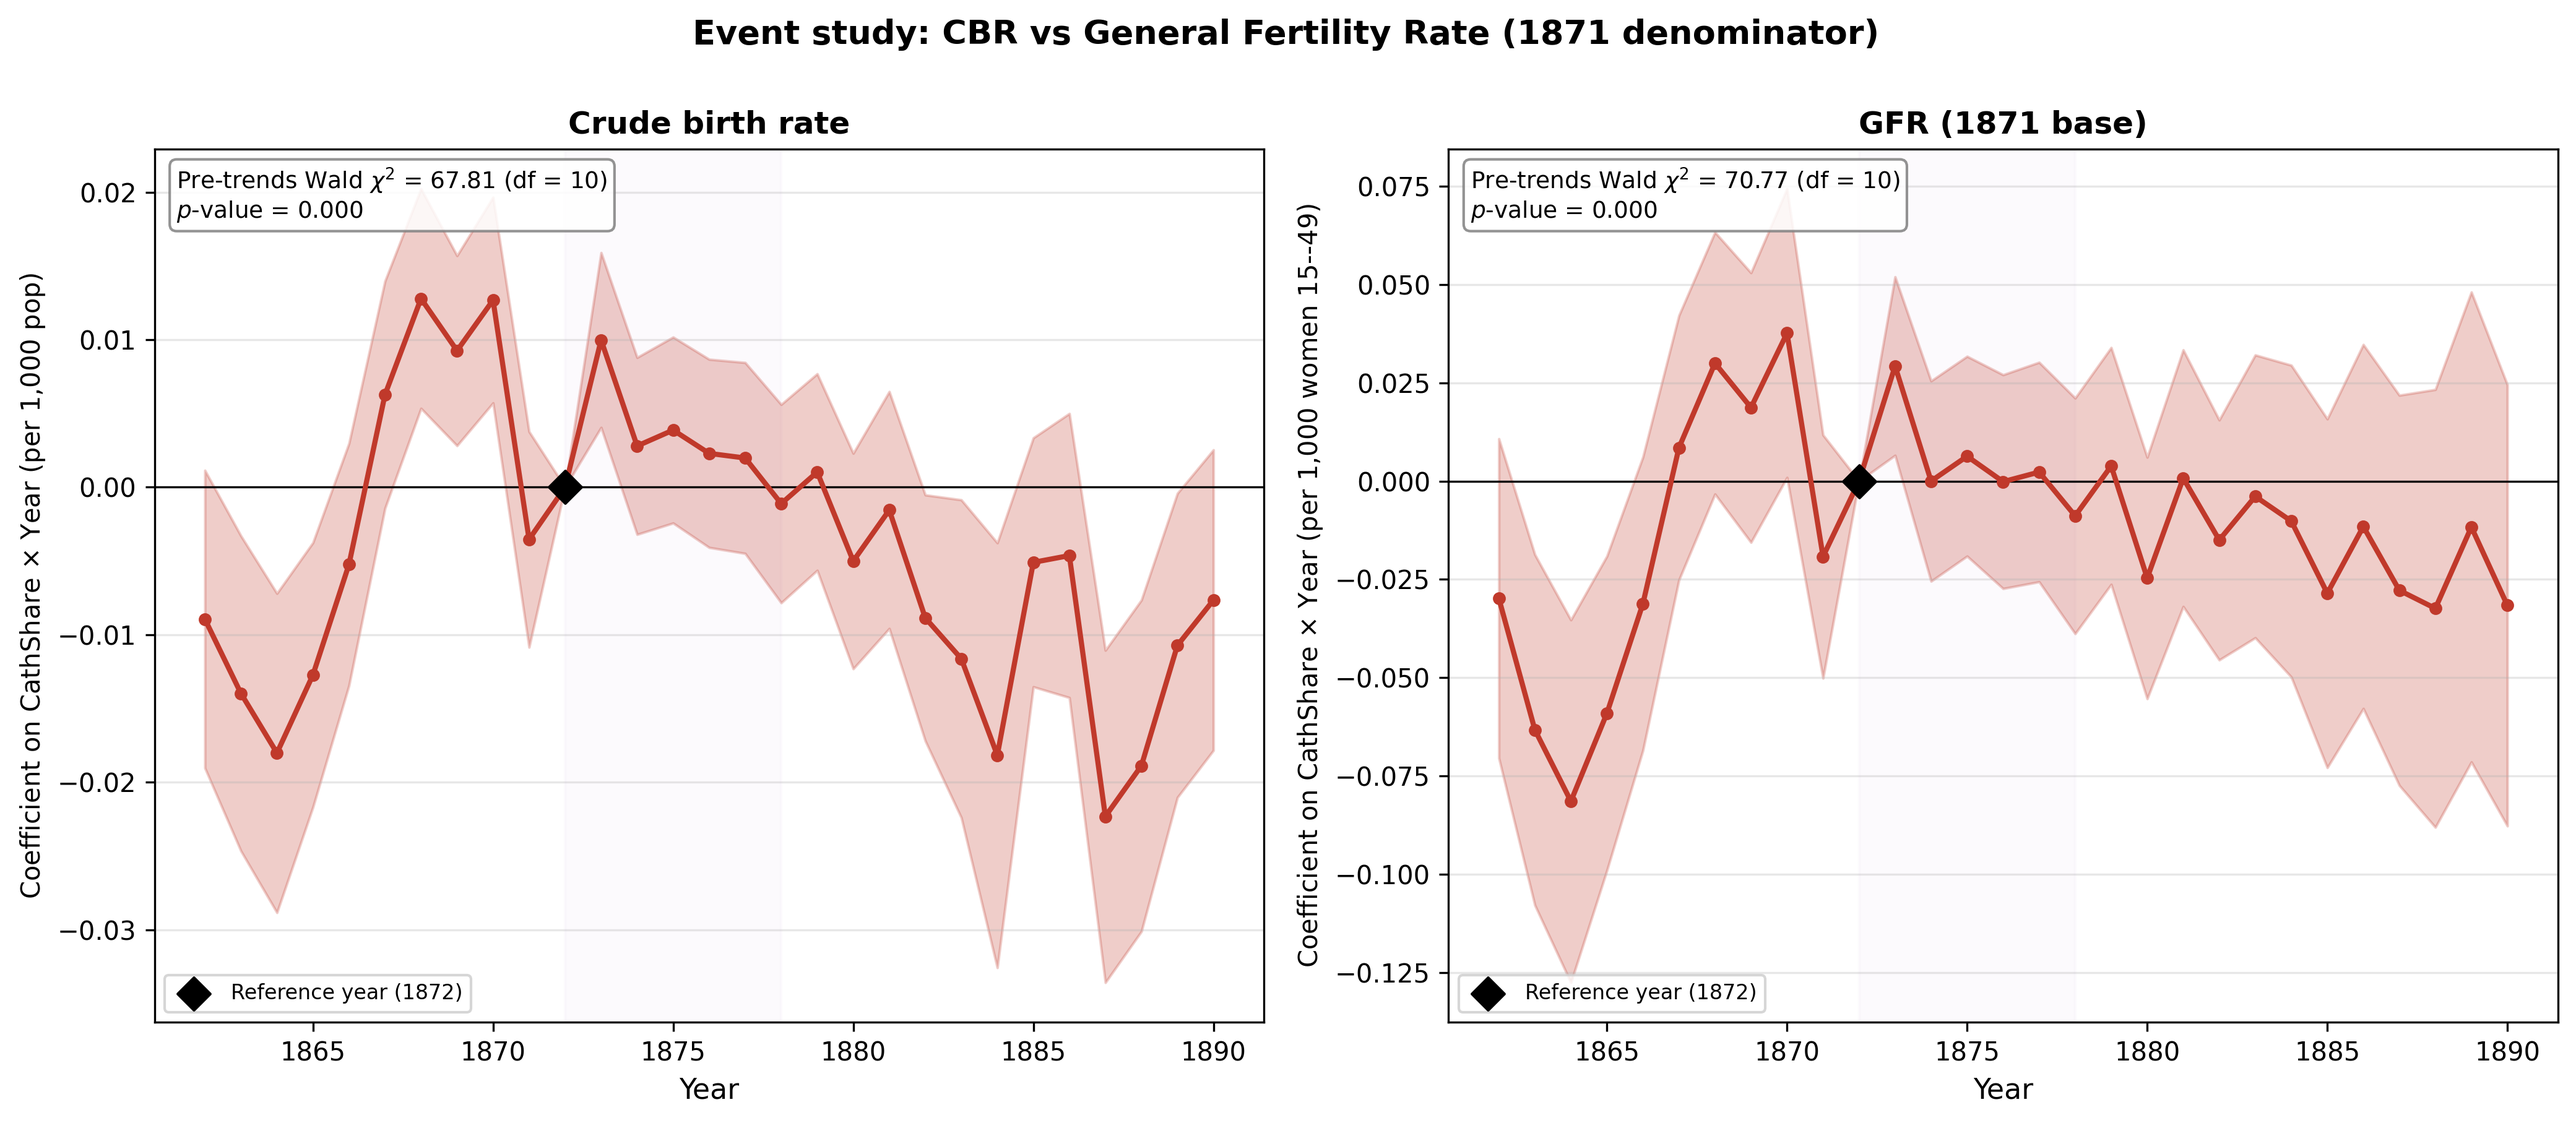
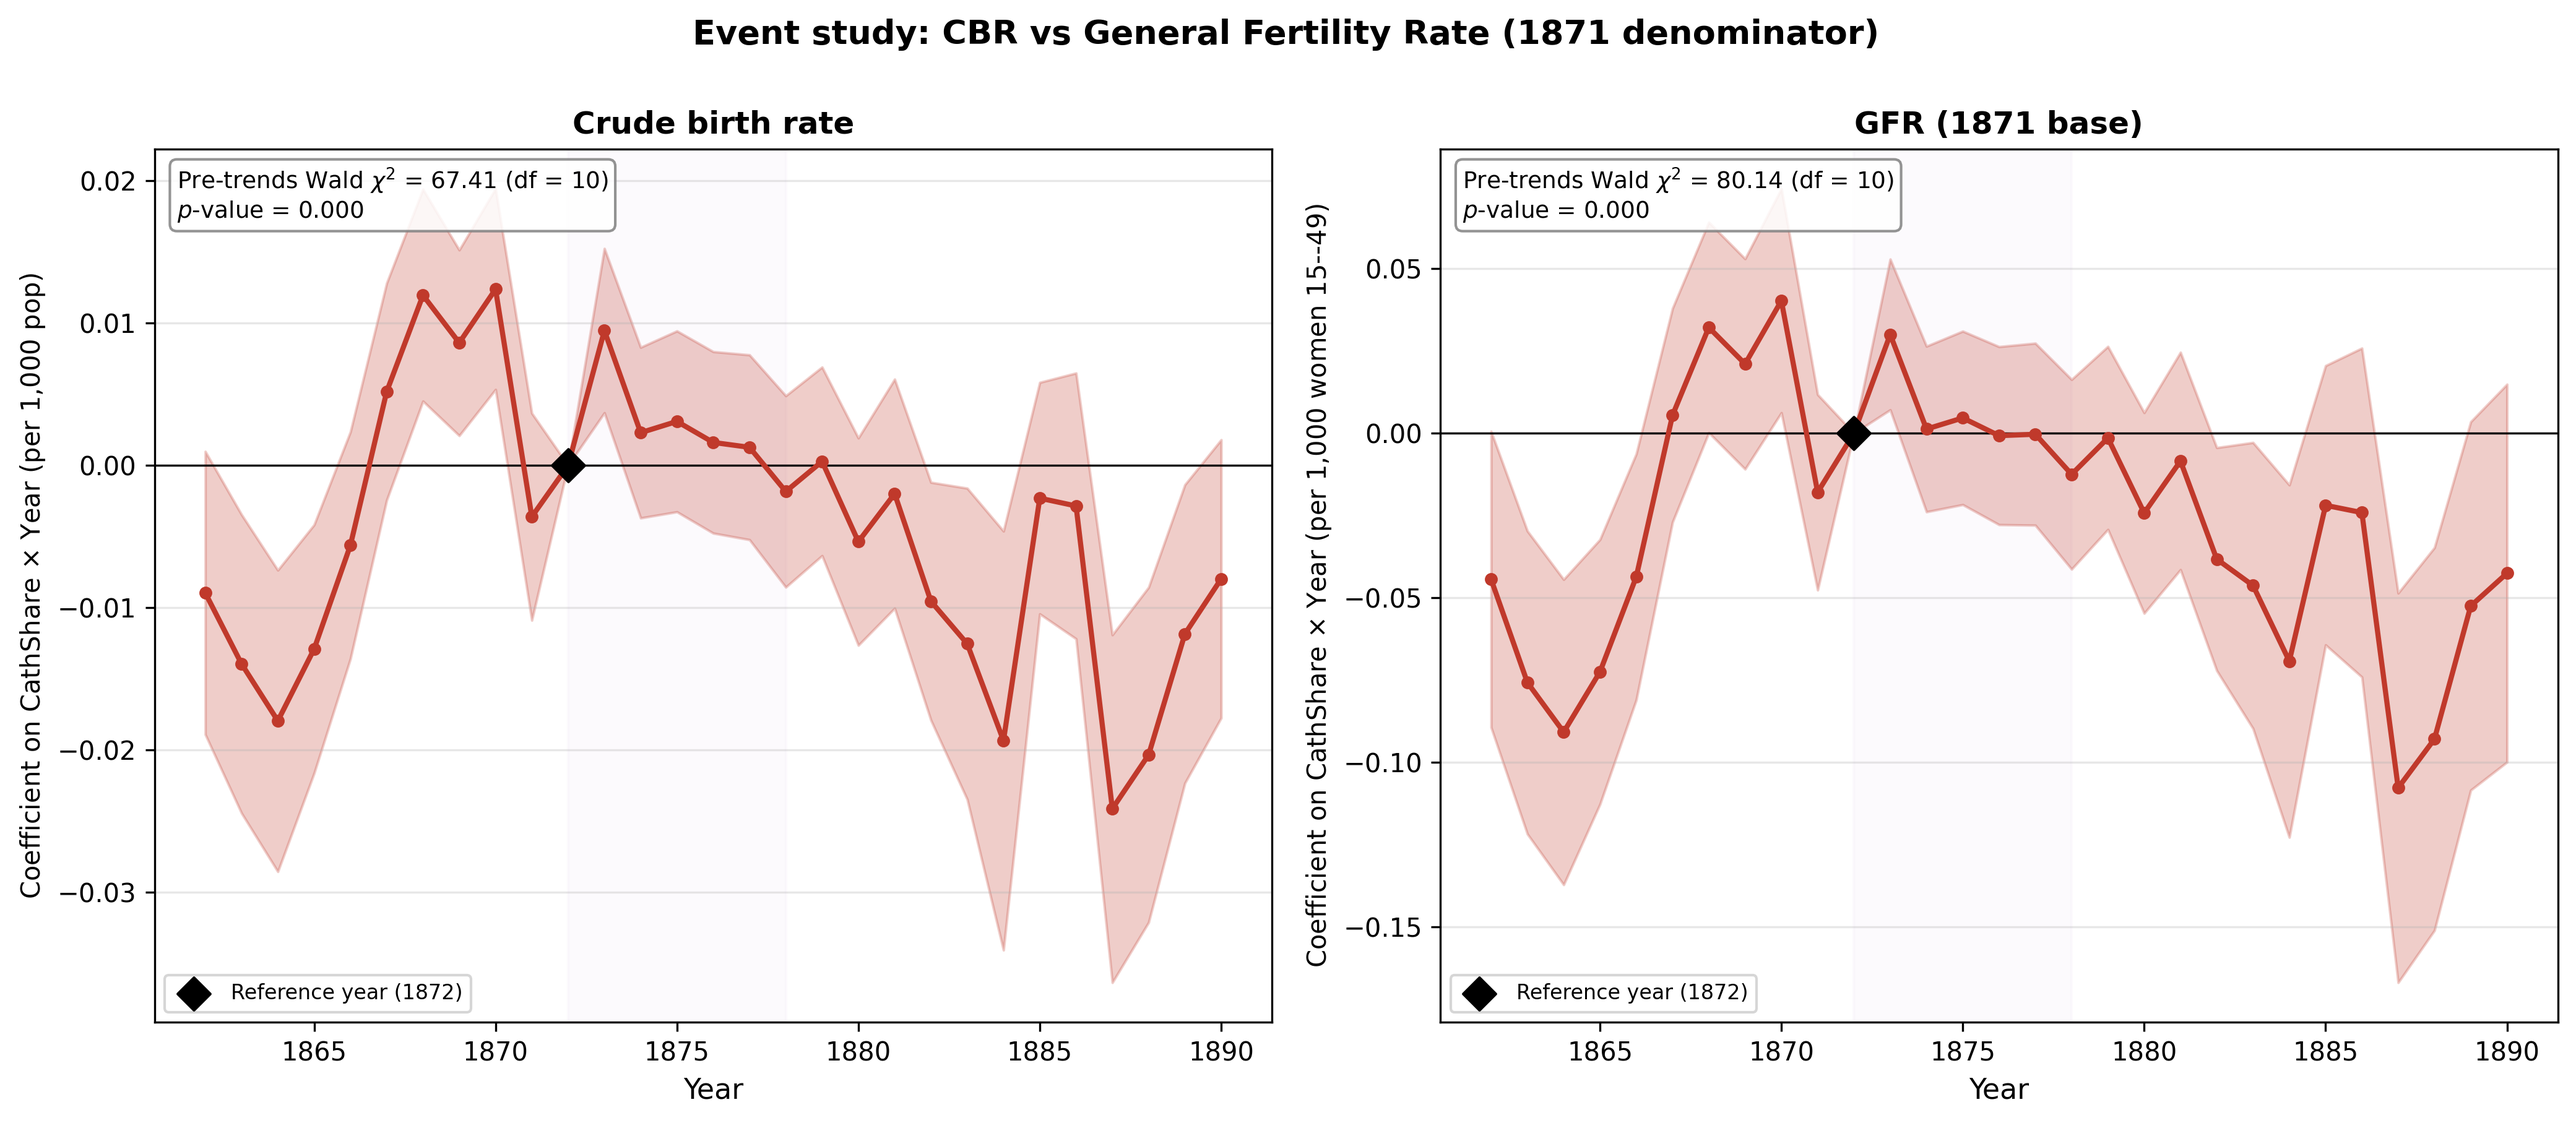
refactor: ln_pop now uses Poptot_midyear (consistent with rate denominators)
Previously ln_pop = log(Poptot) (raw Galloway carry-forward) while the
headline rate variables used Poptot_midyear as denominator. That mixes
conventions inside the same regression: the LHS varies smoothly
year-on-year, while the population control jumps in a sawtooth pattern
at every census year. Switching ln_pop to log(Poptot_midyear) keeps
the regression internally consistent.

Empirical effect (small, as expected):
- CBR DiD: -0.0041 -> -0.0042 (p=0.19, essentially unchanged)
- Marriage rate DiD: -0.0042 -> -0.0042 (no change)
- Legitimate BR DiD: -0.0021 -> -0.0022 (essentially unchanged)
- GFR DiD: +0.0049 (p=0.78) -> -0.0094 (p=0.57) -- sign flips but
  still null. The previous mixed-convention control was distorting
  the GFR estimate.
- Pre-trends Wald basically unchanged for all outcomes.

DATA_APPENDIX.md section 6.6 updated; tables and figure regenerated.

diff --git a/exam_project2/outputs/tables/baseline_did.tex b/exam_project2/outputs/tables/baseline_did.tex
@@ -11,25 +11,25 @@
  & Crude birth rate & Legit.\ birth rate & Illegitimacy ratio & Marriage rate & Crude birth rate & Legit.\ birth rate & Illegitimacy ratio & Marriage rate \\
  & (1) & (2) & (3) & (4) & (5) & (6) & (7) & (8) \\
 \midrule
-CathShare $\times$ Post & -0.004 & -0.002 & -0.003 & -0.004$^{***}$ & 0.003 & 0.003 & 0.000 & 0.000 \\
+CathShare $\times$ Post & -0.004 & -0.002 & -0.003 & -0.004$^{***}$ & 0.001 & 0.002 & 0.000 & -0.000 \\
  & (0.003) & (0.003) & (0.002) & (0.001) & (0.005) & (0.005) & (0.003) & (0.001) \\
 \addlinespace
-$\ln(\text{Population})$ & 7.133$^{***}$ & 6.643$^{***}$ & 0.162 & 1.367$^{***}$ & 6.826$^{***}$ & 6.460$^{***}$ & -0.176 & 0.993$^{***}$ \\
- & (0.892) & (0.848) & (0.219) & (0.160) & (0.944) & (0.872) & (0.268) & (0.165) \\
+$\ln(\text{Population})$ & 1.973$^{**}$ & 1.723$^{**}$ & 0.272 & 0.247$^{*}$ & 2.516$^{***}$ & 2.441$^{***}$ & -0.278 & 0.014 \\
+ & (0.818) & (0.791) & (0.256) & (0.149) & (0.814) & (0.763) & (0.295) & (0.159) \\
 \midrule
 County FE & Yes & Yes & Yes & Yes & Yes & Yes & Yes & Yes \\
 Year FE & Yes & Yes & Yes & Yes & -- & -- & -- & -- \\
 Year $\times$ Rb FE & -- & -- & -- & -- & Yes & Yes & Yes & Yes \\
 Observations & 10,777 & 10,777 & 10,777 & 10,777 & 10,777 & 10,777 & 10,777 & 10,777 \\
-Within $R^{2}$ & 0.055 & 0.054 & 0.010 & 0.034 & 0.055 & 0.054 & -0.002 & 0.005 \\
+Within $R^{2}$ & 0.002 & 0.002 & 0.010 & 0.026 & 0.002 & 0.002 & -0.002 & 0.002 \\
 \midrule
 \multicolumn{9}{l}{\textit{Galloway carry-forward robustness} (rate $=$ count $/$ raw Galloway \texttt{Poptot}; previous Dec.\ census carried forward in inter-census years)} \\
-\quad CathShare $\times$ Post (Galloway carry-forward) & -0.000 & 0.002 & -0.003 & -0.004$^{***}$ & 0.000 & 0.001 & 0.000 & -0.000 \\
+\quad CathShare $\times$ Post (Galloway carry-forward) & -0.001 & 0.001 & -0.003 & -0.004$^{***}$ & 0.001 & 0.002 & 0.000 & -0.000 \\
  & (0.003) & (0.003) & (0.002) & (0.001) & (0.005) & (0.005) & (0.003) & (0.001) \\
 \midrule
 Pre-trends $\chi^{2}$ $p$ & 0.000 & 0.000 & 0.000 & 0.000 & 0.000 & 0.000 & 0.000 & 0.000 \\
 \addlinespace
-\multicolumn{9}{l}{\textit{Pre-trends Wald $\chi^{2}$ on \texttt{gfr\_static\_1871} (GFR comparison)}: $\chi^{2} = 70.77$, df $= 10$, $p = 0.000$} \\
+\multicolumn{9}{l}{\textit{Pre-trends Wald $\chi^{2}$ on \texttt{gfr\_static\_1871} (GFR comparison)}: $\chi^{2} = 80.14$, df $= 10$, $p = 0.000$} \\
 \bottomrule
 \end{tabular}
 \begin{minipage}{\linewidth}

diff --git a/exam_project2/outputs/tables/polish_german.tex b/exam_project2/outputs/tables/polish_german.tex
@@ -11,25 +11,25 @@
 \midrule
 \multicolumn{4}{l}{\textit{Panel A: Crude birth rate}} \\
 \addlinespace
-CathShare $\times$ Enforcement (1873--78) & -0.038$^{**}$ & 0.010 & 0.007$^{**}$ \\
+CathShare $\times$ Enforcement (1873--78) & -0.037$^{**}$ & 0.010 & 0.008$^{**}$ \\
  & (0.015) & (0.010) & (0.004) \\
 \addlinespace
-CathShare $\times$ Rollback (1880--87) & -0.108$^{***}$ & 0.032$^{***}$ & -0.009$^{*}$ \\
- & (0.012) & (0.012) & (0.005) \\
+CathShare $\times$ Rollback (1880--87) & -0.112$^{***}$ & 0.033$^{***}$ & -0.009$^{*}$ \\
+ & (0.014) & (0.012) & (0.005) \\
 \addlinespace
-CathShare $\times$ Post-rollback (1888+) & -0.139$^{***}$ & 0.042$^{***}$ & -0.016$^{***}$ \\
- & (0.026) & (0.013) & (0.006) \\
+CathShare $\times$ Post-rollback (1888+) & -0.158$^{***}$ & 0.043$^{***}$ & -0.018$^{***}$ \\
+ & (0.026) & (0.012) & (0.006) \\
 \addlinespace
 \multicolumn{4}{l}{\textit{Panel B: GFR (1871 base)}} \\
 \addlinespace
-CathShare $\times$ Enforcement (1873--78) & -0.021 & 0.037 & 0.032$^{*}$ \\
- & (0.063) & (0.042) & (0.017) \\
+CathShare $\times$ Enforcement (1873--78) & -0.082 & 0.048 & 0.038$^{**}$ \\
+ & (0.055) & (0.042) & (0.017) \\
 \addlinespace
-CathShare $\times$ Rollback (1880--87) & -0.286$^{***}$ & 0.149$^{***}$ & -0.012 \\
- & (0.068) & (0.050) & (0.024) \\
+CathShare $\times$ Rollback (1880--87) & -0.377$^{***}$ & 0.155$^{***}$ & -0.029 \\
+ & (0.062) & (0.052) & (0.025) \\
 \addlinespace
-CathShare $\times$ Post-rollback (1888+) & -0.637$^{***}$ & 0.197$^{***}$ & -0.052 \\
- & (0.124) & (0.060) & (0.037) \\
+CathShare $\times$ Post-rollback (1888+) & -0.701$^{***}$ & 0.216$^{***}$ & -0.074$^{**}$ \\
+ & (0.119) & (0.054) & (0.035) \\
 \addlinespace
 \midrule
 County FE & Yes & Yes & Yes \\

diff --git a/exam_project2/src/data/build_dataset.py b/exam_project2/src/data/build_dataset.py
@@ -79,7 +79,9 @@ def build_analysis_panel(
                       net_mig_rate_carryforward
         1871 census:  pop_*_1871, age_*_1871, women_15_49_1871,
                       women_share_15_49_1871
-        Controls:     Poptot (raw Galloway), ln_pop, plus iPEHD covariates
+        Controls:     ln_pop (= log Poptot_midyear), plus iPEHD covariates;
+                      raw Galloway `Poptot` is also retained as a column
+                      for users who want to recompute carry-forward rates
     """
     if data_dir is None:
         data_dir = DATA_RAW
@@ -174,9 +176,11 @@ def build_analysis_panel(
         np.nan,
     )
 
-    # Log population (uses raw Galloway Poptot so the year-effect absorbs
-    # the carry-forward sawtooth; not used as an outcome).
-    panel["ln_pop"] = np.log(panel["Poptot"])
+    # Log mid-year population: standard control for county-size effects,
+    # using the same mid-year-interpolated denominator as the headline
+    # rate variables (avoids mixing carry-forward and mid-year
+    # conventions inside the same regression).
+    panel["ln_pop"] = np.log(panel["Poptot_midyear"])
 
     # Headline migration rates: mid-year denominator (per 1,000 pop).
     # Coverage: 1862-1867 (totals only) and 1872-1886 (sex-summed); years

diff --git a/exam_project2/outputs/tables/heterogeneity.tex b/exam_project2/outputs/tables/heterogeneity.tex
@@ -10,16 +10,16 @@ Dependent variable: & Crude birth rate & Marriage rate & GFR (1871 base) \\
  & (1) & (2) & (3) \\
 \midrule
 \multicolumn{4}{l}{\textit{Moderator: School enrolment 15--17}} \\
-CathShare $\times$ Post (at moderator mean) & -0.005$^{*}$ & -0.004$^{***}$ & -0.007 \\
- & (0.003) & (0.001) & (0.019) \\
-CathShare $\times$ Post $\times$ Moderator & 0.027$^{**}$ & -0.000 & 0.168$^{*}$ \\
- & (0.013) & (0.003) & (0.088) \\
+CathShare $\times$ Post (at moderator mean) & -0.006$^{*}$ & -0.004$^{***}$ & -0.019 \\
+ & (0.003) & (0.001) & (0.017) \\
+CathShare $\times$ Post $\times$ Moderator & 0.031$^{**}$ & 0.001 & 0.160$^{**}$ \\
+ & (0.013) & (0.003) & (0.081) \\
 \addlinespace
 
 \multicolumn{4}{l}{\textit{Moderator: Urban population share}} \\
-CathShare $\times$ Post (at moderator mean) & -0.005 & -0.005$^{***}$ & 0.006 \\
- & (0.003) & (0.001) & (0.020) \\
-CathShare $\times$ Post $\times$ Moderator & 0.000 & -0.000$^{*}$ & -0.000 \\
+CathShare $\times$ Post (at moderator mean) & -0.005 & -0.005$^{***}$ & -0.012 \\
+ & (0.004) & (0.001) & (0.018) \\
+CathShare $\times$ Post $\times$ Moderator & -0.000 & -0.000$^{**}$ & -0.000 \\
  & (0.000) & (0.000) & (0.001) \\
 \addlinespace
 \bottomrule

diff --git a/exam_project2/DATA_APPENDIX.md b/exam_project2/DATA_APPENDIX.md
@@ -287,7 +287,7 @@ These are **measured** migration rates from Galloway, distinct from the *implied
 
 | Variable | Definition | Formula | Unit | Built at |
 |---|---|---|---|---|
-| `ln_pop` | Log population | $\ln(\texttt{Poptot})$ | log persons | [`build_dataset.py:145`](src/data/build_dataset.py:145) |
+| `ln_pop` | Log mid-year population (county-size control) | $\ln(\texttt{Poptot\_midyear})$ — uses the same mid-year denominator as the headline rates so the regression does not mix conventions | log persons | [`build_dataset.py:178–181`](src/data/build_dataset.py:178) |
 | `cbr_flag` | CBR outlier flag (catches extremes under either mid-year or Galloway carry-forward denominator) | $\mathbb{1}[\texttt{cbr}\notin[15,70]\,\text{or}\,\texttt{cbr\_carryforward}\notin[15,70]]$ | bool; **6 obs = TRUE** | [`build_dataset.py:222–230`](src/data/build_dataset.py:222) |
 | `gfr_flag` | GFR outlier flag | $\mathbb{1}[\texttt{gfr\_static\_1871}>400]$ | bool; **10 obs = TRUE** (mostly 1869–1872 boundary-reform artefacts) | [`build_dataset.py:264–266`](src/data/build_dataset.py:264) |
 
